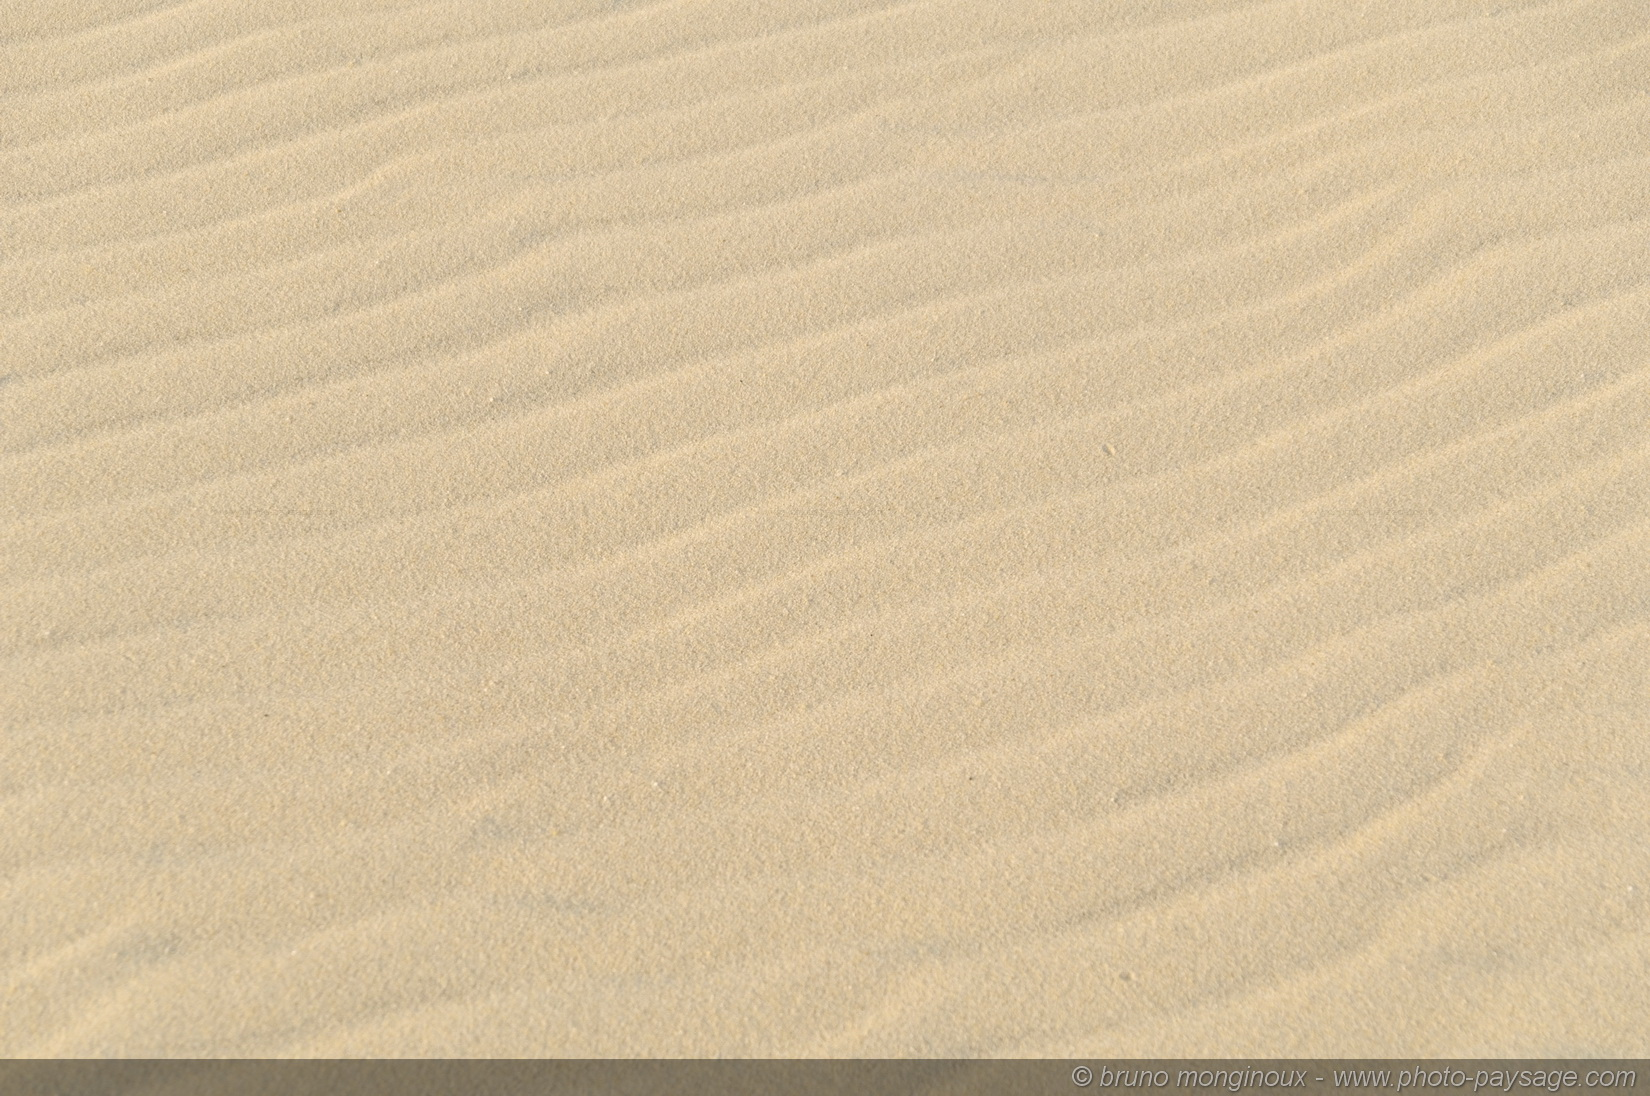
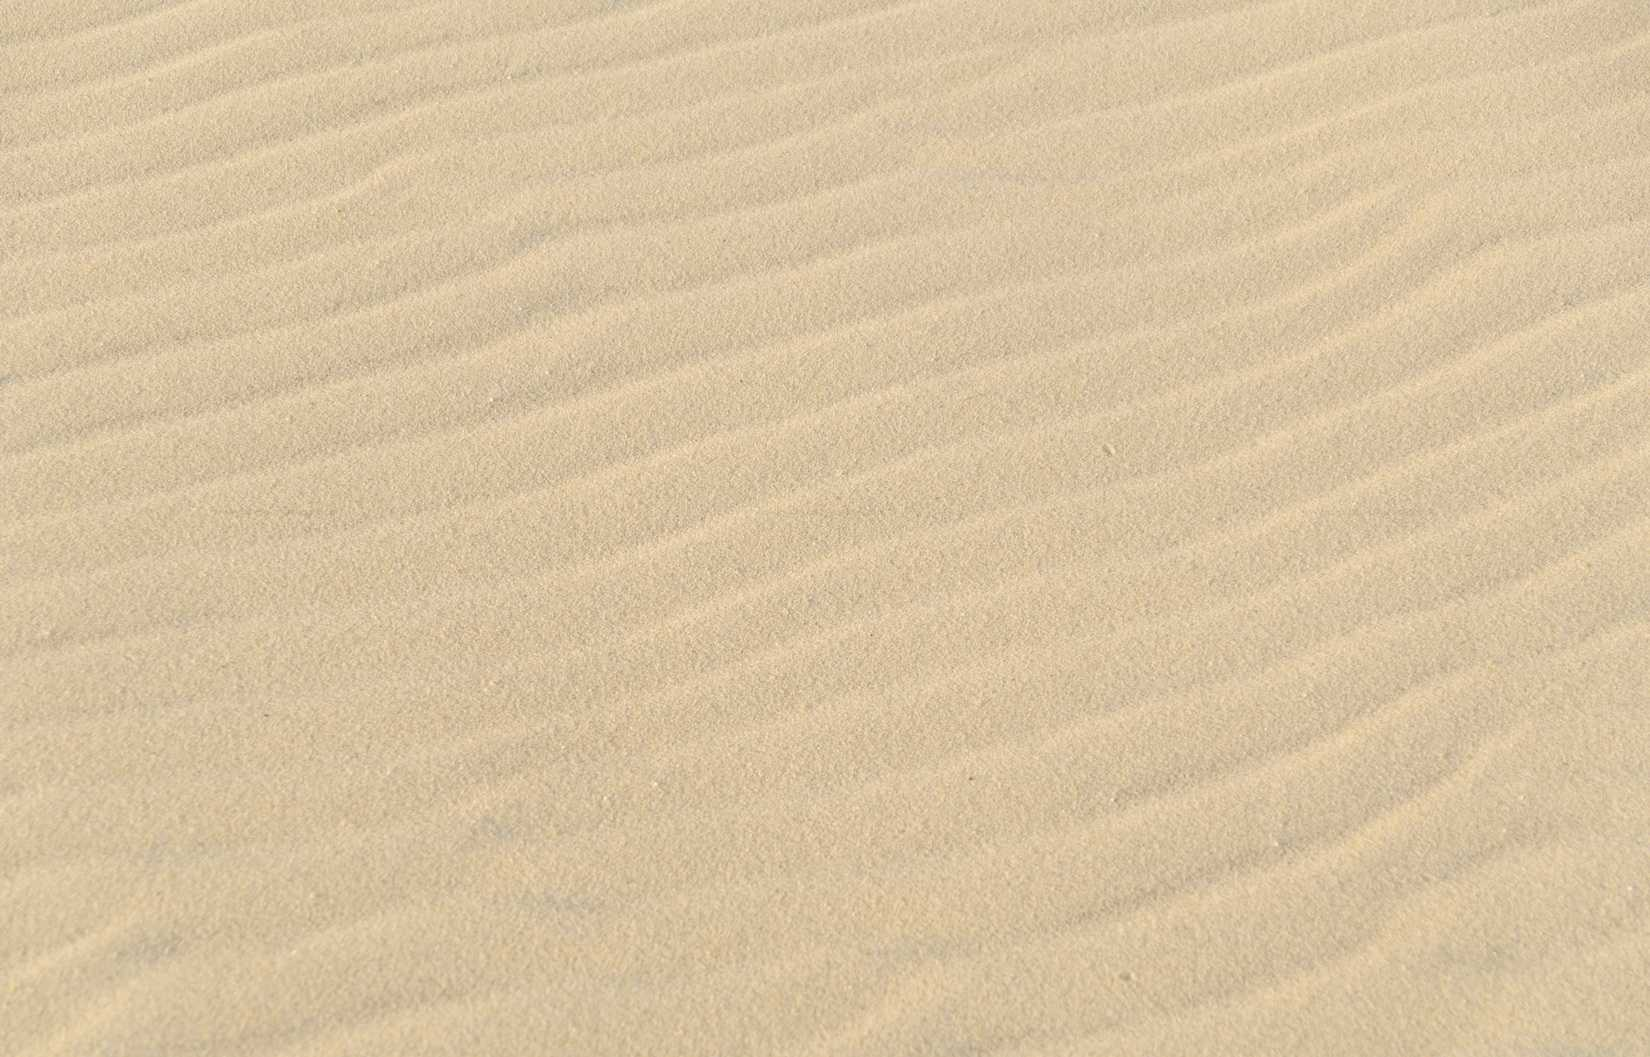
modification 18 12 2019
modification fond sable
mise à jours du CSS couleur
mise en place media queries Index

diff --git a/styleCV.css b/styleCV.css
@@ -1,6 +1,7 @@
 /* 
 font-family: 'Indie Flower', cursive;
-font-family: 'Caveat', cursive; 
+font-family: 'Caveat', cursive;
+font-family: 'Libre Baskerville', serif; 
 */
 
 *{ 
@@ -19,14 +20,16 @@ h1, h2, h3{
 hgroup{
 
     text-align: center;
-    margin: 1%;
-    border: dotted violet;
+    margin: 2% auto;
+    border: dotted rgb(130, 159, 238);
     border-radius:25%;
+    width: 80%;
+    background-color: rgba(83, 140, 246, 0.315);
 }
 
 /* Corps total */
 .corps{
-    background-color: rgba(199, 236, 241, 0.808);
+    background-color: rgba(255, 255, 255, 0.37);
     display: flex;
     margin: 1% 2.5%;
 }
@@ -60,10 +63,6 @@ aside{
     text-align: center;
     font-size: x-large;
 }
-.Experiences li{
-    list-style: none;
-    padding-left: 1%;
-}
 .Experiences span{
     text-decoration: underline black;
     font-weight: bold;
@@ -80,11 +79,11 @@ aside{
     padding: 1%;
     margin: 1%;
     text-decoration: none;
-    background: linear-gradient(-45deg, #b4e7fd, #bd9adf);
+    background: linear-gradient(-45deg, #b4e7fd, #9aa1df);
     border-radius: 10% 5%;
 }
 .boutonplus a:hover{
-    background: linear-gradient(-45deg,  #94defd,#a86ddf);
+    background: linear-gradient(-45deg,  #9aa1df,#b4e7fd);
 }
 /* Présentation */
 .presentation h2{
@@ -115,7 +114,7 @@ aside{
     padding: 1%;    
 }
 .blockloisir h3{
-    background-color: aqua;
+    background-color: rgb(145, 250, 250);
     border-radius: 0 25%;
     text-align: center;
     margin: 3%;
@@ -155,13 +154,13 @@ aside li{
 }
 .navi{
     margin-bottom: 8%;
-    border: 2px dotted rgb(255, 91, 119);
+    border: 2px dotted rgb(91, 135, 255);
     border-radius: 15% 0;
     padding: 1% 0;
 }
 .autres{
     margin-bottom: 8%;
-    border: 2px dotted rgb(255, 91, 119);
+    border: 2px dotted rgb(91, 135, 255);
     border-radius:0 15% ;
     padding: 3%;
 }
@@ -174,7 +173,24 @@ aside li{
 }
 /* Formulaire */
 form{
-    padding: 3%;
+    padding: 2%;
+}
+fieldset{
+    border:1px solid cornflowerblue;
+    border-radius: 10px;
+    background-color: rgba(86, 173, 245, 0.459);
+    padding: 5px;
+}
+legend{
+    font-family: 'Indie Flower', cursive;
+    font-size: xx-large; 
+}
+input, textarea{
+    font-family: 'Libre Baskerville', serif;
+    border : 1px solid blue;
+    border-radius: 5px;
+    background-color: rgba(100, 148, 237, 0.472);
+    padding: 2%;
 }
 
 /* boutons up et Down */
@@ -198,3 +214,55 @@ form{
 }
 
 /* footer */
+
+/* Media querries */
+
+@media (max-width:1220px){
+    .UpBouton{
+        display: none;
+    }
+    .DownBouton{
+        display : none;
+    }
+}
+@media (max-width:1100px){
+    .corps{
+        flex-direction: column;
+    }
+    .navi{
+        display:none;
+    }
+    .contact{
+        margin-top: 2%;
+        flex-wrap: wrap;
+    }
+    .colonnegauche{
+        width: 95%;
+    }
+    aside{
+        width: 75%;
+        margin: 0 auto;
+    }
+    .autres{
+        margin-bottom: 2%;
+    }
+}
+@media (max-width:730px){
+    .Experiences{
+        flex-direction: column;
+    }
+    .Experiences div{
+        width: 85%;
+        margin: 0 auto;
+    }
+}
+@media (max-width:600px){
+    .blockloisir{
+        flex-direction: column;
+    }
+    .blockloisir div{
+        width: 85%;
+        margin: 0 auto;
+    }
+}
+

diff --git a/Index.html b/Index.html
@@ -9,6 +9,7 @@
 <!--Polices-->
     <link href="https://fonts.googleapis.com/css?family=Caveat|Indie+Flower&display=swap" rel="stylesheet">
     <link href="https://fonts.googleapis.com/css?family=Roboto+Slab&display=swap" rel="stylesheet">
+    <link href="https://fonts.googleapis.com/css?family=Libre+Baskerville&display=swap" rel="stylesheet">
 <!--Script icones-->
     <script src="https://kit.fontawesome.com/ea576b5246.js" crossorigin="anonymous"></script>
     <title>Marion DUCROCQ - Devellopeur Intégrateur Web</title>
@@ -158,23 +159,25 @@
             </div>
             <div class="contact" id="contact">
                 <h2>Contact</h2>
-                <div class="moi">
-                    <h3>Moi</h3>
-                    <p>Nom : Marion Ducrocq</p>
-                    <p>Adresse : 6 Chemin du coi, chez pépin 17380 Archingeay</p>
-                    <p>Telephone : 06.65.25.97.19</p>
-                    <p>Mail : ducrocq.marion17@gmail.com</p>
-                </div>
-                <h3>Vous</h3>
                 <form id="formulaire" action="" method="POST">
-                    <label for="nom"> Votre nom :</label><br>
-                    <input type="text" name="nom" id="nom"> <br>
-                    <label for="entreprise"> Votre entreprise</label><br>
-                    <input type="text"name="entreprise" id="entreprise"> <br>
-                    <label for="message"> Votre Message</label><br>
-                    <textarea name="message" id="message" cols="30" rows="10" placeholder="Votre message ici..."></textarea><br>
-                    <input type="submit" value="Envoyer !">
-                    <input type="reset" value="Reset">
+                    <fieldset class="moi">                    
+                        <legend>Moi</legend>
+                        <p>Nom : Marion Ducrocq</p>
+                        <p>Adresse : 6 Chemin du coi, chez pépin 17380 Archingeay</p>
+                        <p>Telephone : 06.65.25.97.19</p>
+                        <p>Mail : ducrocq.marion17@gmail.com</p>
+                    </fieldset>
+                    <fieldset>
+                        <legend>Vous</legend>
+                        <label for="nom"> Votre nom :</label><br>
+                        <input type="text" name="nom" id="nom"> <br>
+                        <label for="entreprise"> Votre entreprise</label><br>
+                        <input type="text"name="entreprise" id="entreprise"> <br>
+                        <label for="message"> Votre Message</label><br>
+                        <textarea name="message" id="message" cols="30" rows="10" placeholder="Votre message ici..."></textarea><br>
+                        <input type="submit" value="Envoyer !">
+                        <input type="reset" value="Reset">
+                    </fieldset>
                 </form>
             </div>
         </aside>

diff --git a/styleExp.css b/styleExp.css
@@ -3,37 +3,45 @@ font-family: 'Indie Flower', cursive;
 font-family: 'Caveat', cursive; 
 */
 
-*{
-    margin: 0;
+*{ 
+    margin:0;
     padding: 0;
     box-sizing: border-box;
 }
 body{
-    background: linear-gradient(25deg, #a8d3e6, #e3c4ff);
+    background-image: url(./images/sables.jpg);
     font-family: 'Roboto Slab', serif;
 }
 h1, h2, h3{
     font-family: 'Indie Flower', cursive;    
 }
-
 /* header */
 hgroup{
+
     text-align: center;
-    margin: 1%;
-    border: dotted rgb(132, 130, 238);
+    margin: 2% auto;
+    border: dotted rgb(130, 159, 238);
     border-radius:25%;
+    width: 80%;
+    background-color: rgba(83, 140, 246, 0.315);
 }
 /* Corps général */
+.retour{
+    display: flex;
+}
 .retour a{
-    padding: 1%;
+    justify-content: start;
+    align-items: baseline;
+    padding: 0.5%;
     border-radius: 15% 0;
-    background: radial-gradient(aliceblue, pink);
+    background: radial-gradient(rgb(253, 242, 194), rgb(192, 212, 255));
 }
 .retour a:hover{
     font-weight: bold;
 }
 .corpsgeneral{
     margin: 1% 2.5% 1% 2.5%;
+    background-color: rgba(255, 255, 255, 0.37);
 }
 .corpsgeneral li{
     list-style: none;
